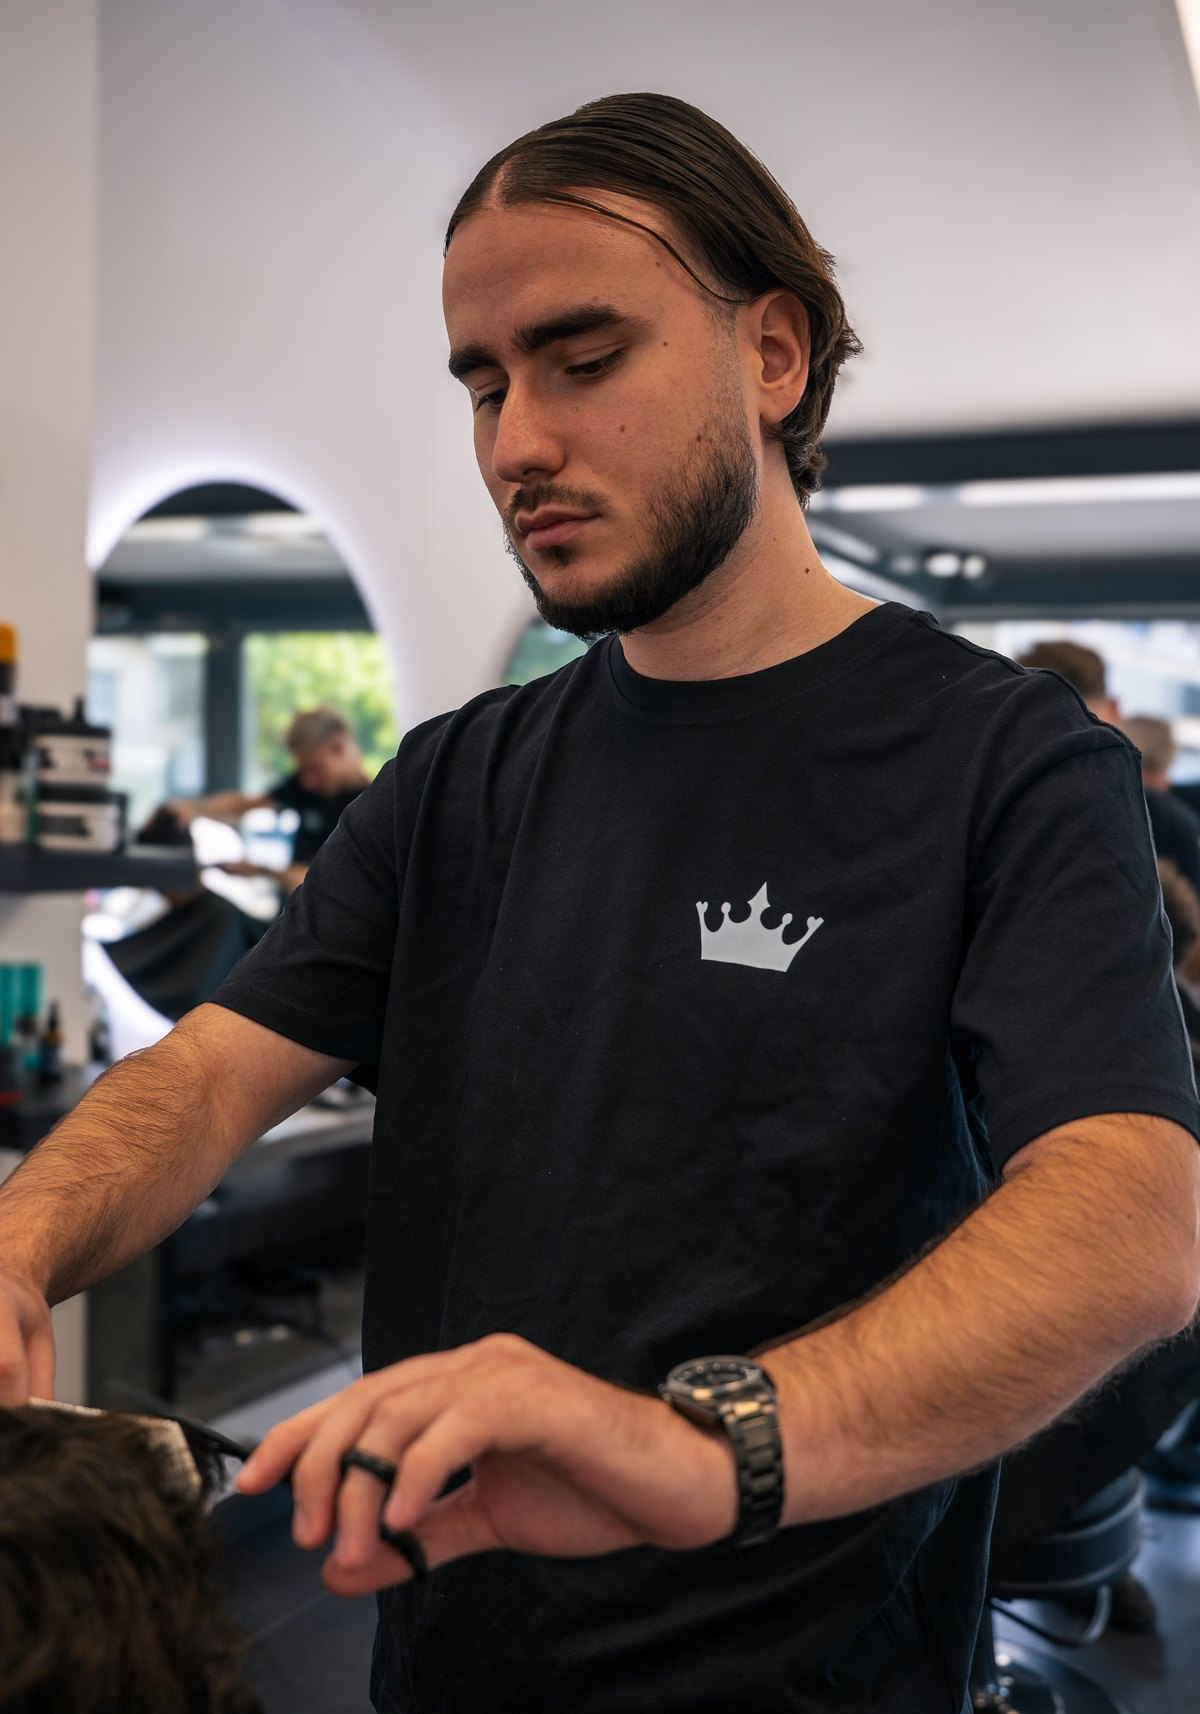
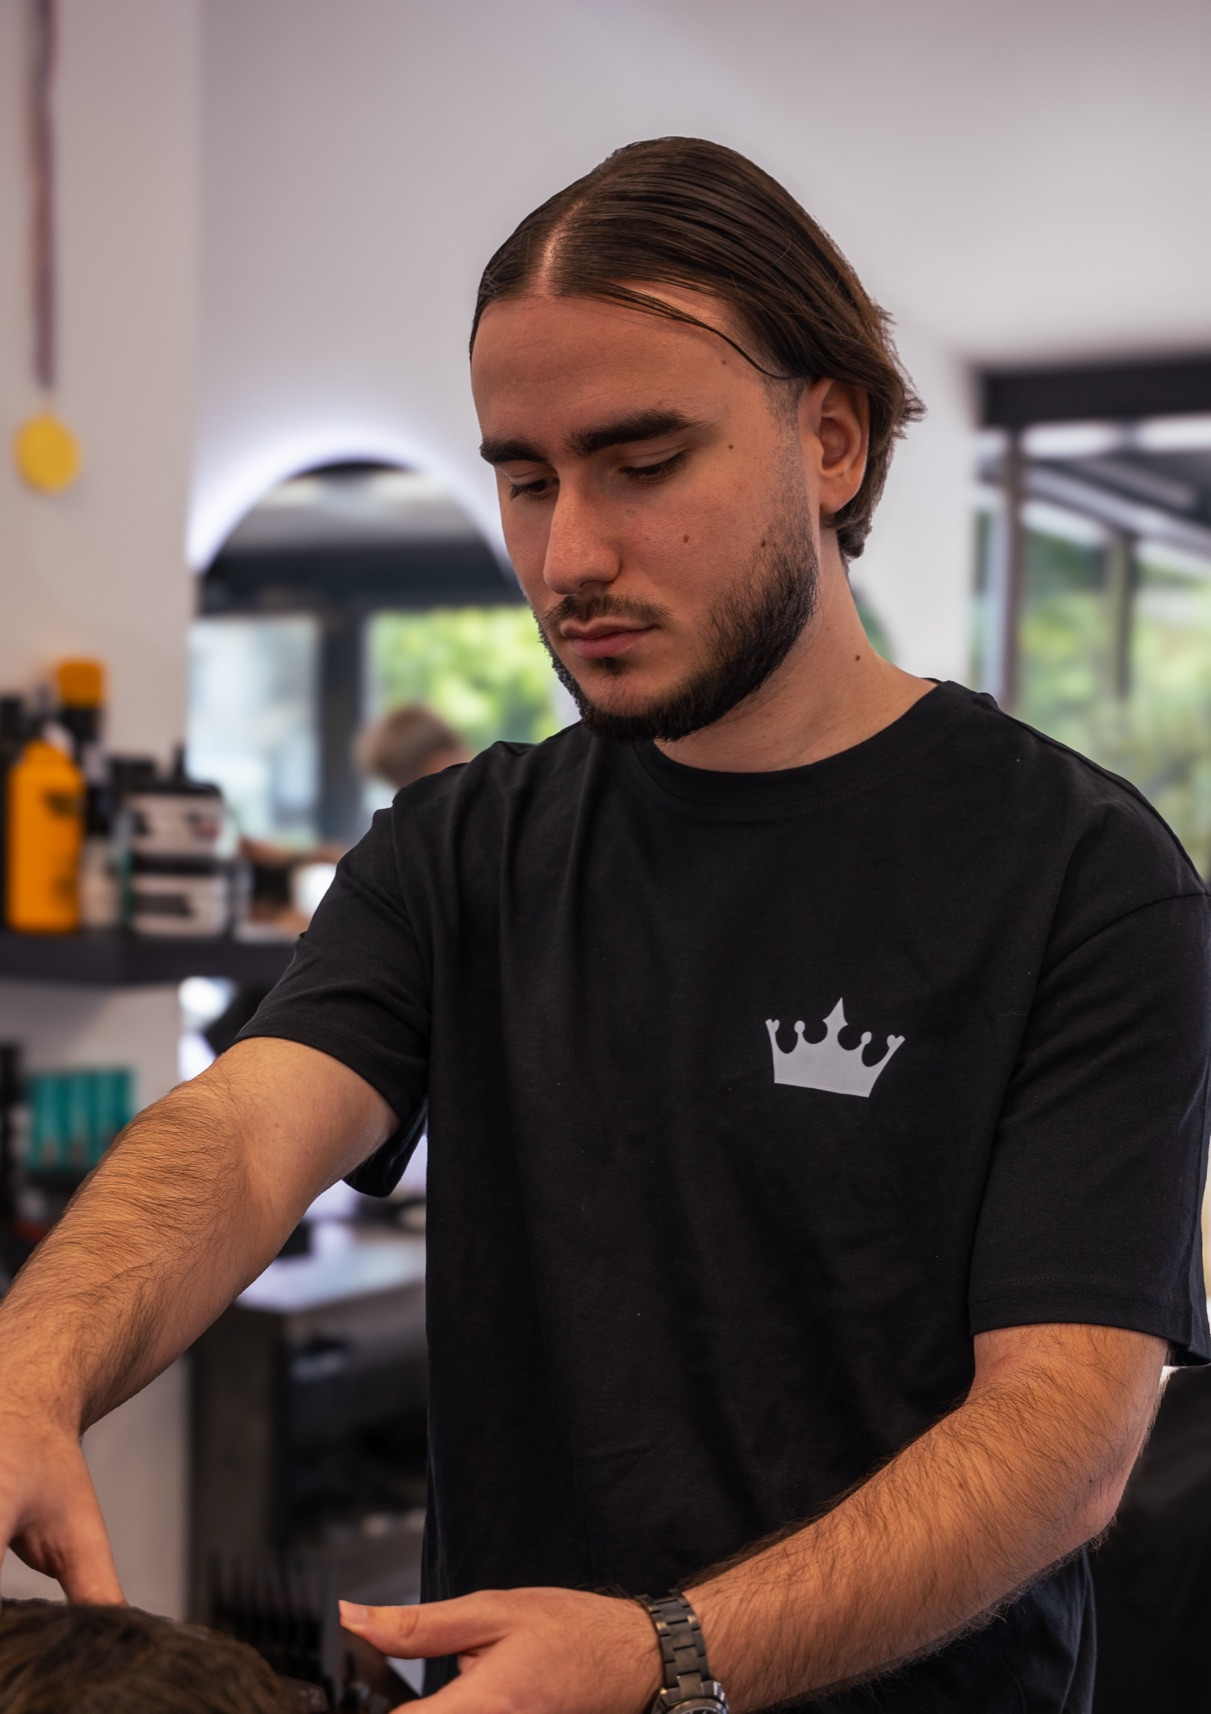
feat(grenoble): Eddine et Durel ne sont plus « prochainement »
Cartes normales (Barbier) qui menent a la reservation avec le barbier
choisi ; nouvelle photo d'Eddine (aussi utilisee par la reservation via
/barbers/eddine.jpg). Durel garde le fauteuil en attendant sa photo.

diff --git a/pages/grenoble/barbers.html b/pages/grenoble/barbers.html
@@ -23,7 +23,7 @@
 <link rel="stylesheet" href="../../assets/css/barbers.css">
 <link rel="stylesheet" href="../../assets/css/bottom-nav.css">
 <style>
-/* Grenoble — grille 8 cartes (6 barbers + 2 « prochainement »). Julien vient le jeudi. */
+/* Grenoble — grille 8 cartes. Julien vient le jeudi. */
 .page.loaded .barber-card:nth-child(5) { transition-delay: 0.7s; }
 .page.loaded .barber-card:nth-child(6) { transition-delay: 0.8s; }
 .page.loaded .barber-card:nth-child(7) { transition-delay: 0.9s; }
@@ -169,47 +169,46 @@
       </div>
     </a>
 
-    <div class="barber-card barber-card--soon" data-tilt data-soon role="img" aria-label="Eddine, nouveau barbier au salon de Grenoble, dès le 15 septembre">
-      <span class="soon-badge"><span class="dot" aria-hidden="true"></span>Prochainement</span>
+    <!-- Eddine et Durel sont arrivés (15 sept., 1er oct.) : plus de « Prochainement ».
+         Pas encore de fiche à eux : la carte mène à la réservation, barbier choisi. -->
+    <a href="reserver.html?barber=Eddine" class="barber-card" data-tilt>
       <div class="barber-media">
         <picture>
-          <source srcset="../../assets/images/barbers/barber-soon.webp?v=1" type="image/webp">
-          <img src="../../assets/images/barbers/barber-soon.jpg?v=1" alt="Fauteuil de barbier mystère annonçant l'arrivée de Eddine" loading="lazy">
+          <source srcset="../../assets/images/barbers/eddine.webp?v=2" type="image/webp">
+          <img src="../../assets/images/barbers/eddine.jpg?v=2" alt="Eddine" loading="lazy">
         </picture>
         <div class="barber-media-overlay"></div>
       </div>
       <div class="barber-info">
         <div class="barber-details">
           <h2 class="barber-name">Eddine</h2>
-          <p class="barber-role">Nouveau</p>
-          <p class="barber-when">Dès le 15 sept.</p>
+          <p class="barber-role">Barbier</p>
         </div>
-        <div class="barber-cta" aria-hidden="true">
-          <svg viewBox="0 0 24 24" fill="none" stroke="currentColor" stroke-width="2.5" stroke-linecap="round" stroke-linejoin="round"><path d="M5 22h14M5 2h14M17 22v-4.172a2 2 0 0 0-.586-1.414L12 12l-4.414 4.414A2 2 0 0 0 7 17.828V22M7 2v4.172a2 2 0 0 0 .586 1.414L12 12l4.414-4.414A2 2 0 0 0 17 6.172V2"/></svg>
+        <div class="barber-cta">
+          <svg viewBox="0 0 24 24" fill="none" stroke="currentColor" stroke-width="2.5" stroke-linecap="round" stroke-linejoin="round"><path d="M5 12h14M12 5l7 7-7 7"/></svg>
         </div>
       </div>
-    </div>
+    </a>
 
-    <div class="barber-card barber-card--soon" data-tilt data-soon role="img" aria-label="Durel, nouveau barbier au salon de Grenoble, dès le 1er octobre">
-      <span class="soon-badge"><span class="dot" aria-hidden="true"></span>Prochainement</span>
+    <!-- Durel : pas encore de photo, le fauteuil mystère reste en attendant -->
+    <a href="reserver.html?barber=Durel" class="barber-card" data-tilt>
       <div class="barber-media">
         <picture>
           <source srcset="../../assets/images/barbers/barber-soon.webp?v=1" type="image/webp">
-          <img src="../../assets/images/barbers/barber-soon.jpg?v=1" alt="Fauteuil de barbier mystère annonçant l'arrivée de Durel" loading="lazy">
+          <img src="../../assets/images/barbers/barber-soon.jpg?v=1" alt="Durel — photo à venir" loading="lazy">
         </picture>
         <div class="barber-media-overlay"></div>
       </div>
       <div class="barber-info">
         <div class="barber-details">
           <h2 class="barber-name">Durel</h2>
-          <p class="barber-role">Nouveau</p>
-          <p class="barber-when">Dès le 1er oct.</p>
+          <p class="barber-role">Barbier</p>
         </div>
-        <div class="barber-cta" aria-hidden="true">
-          <svg viewBox="0 0 24 24" fill="none" stroke="currentColor" stroke-width="2.5" stroke-linecap="round" stroke-linejoin="round"><path d="M5 22h14M5 2h14M17 22v-4.172a2 2 0 0 0-.586-1.414L12 12l-4.414 4.414A2 2 0 0 0 7 17.828V22M7 2v4.172a2 2 0 0 0 .586 1.414L12 12l4.414-4.414A2 2 0 0 0 17 6.172V2"/></svg>
+        <div class="barber-cta">
+          <svg viewBox="0 0 24 24" fill="none" stroke="currentColor" stroke-width="2.5" stroke-linecap="round" stroke-linejoin="round"><path d="M5 12h14M12 5l7 7-7 7"/></svg>
         </div>
       </div>
-    </div>
+    </a>
 
   </div>
 
